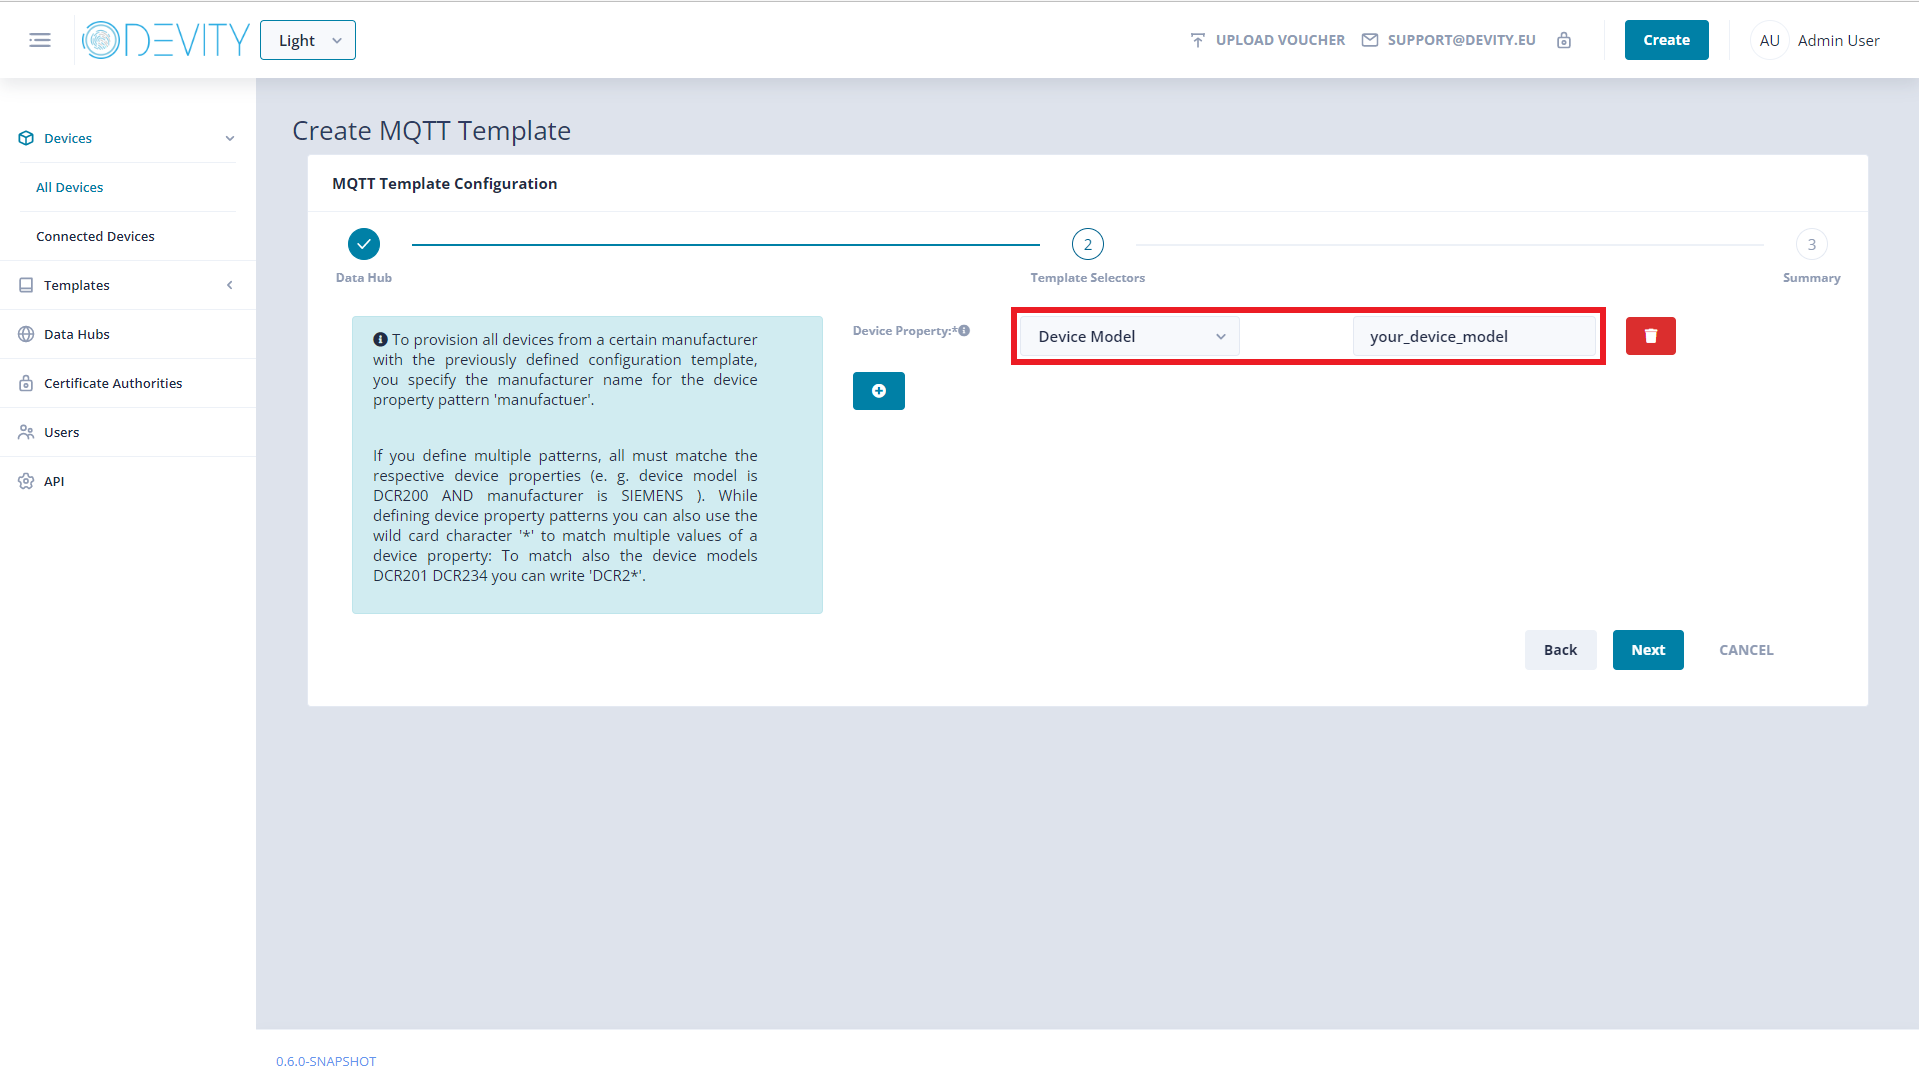
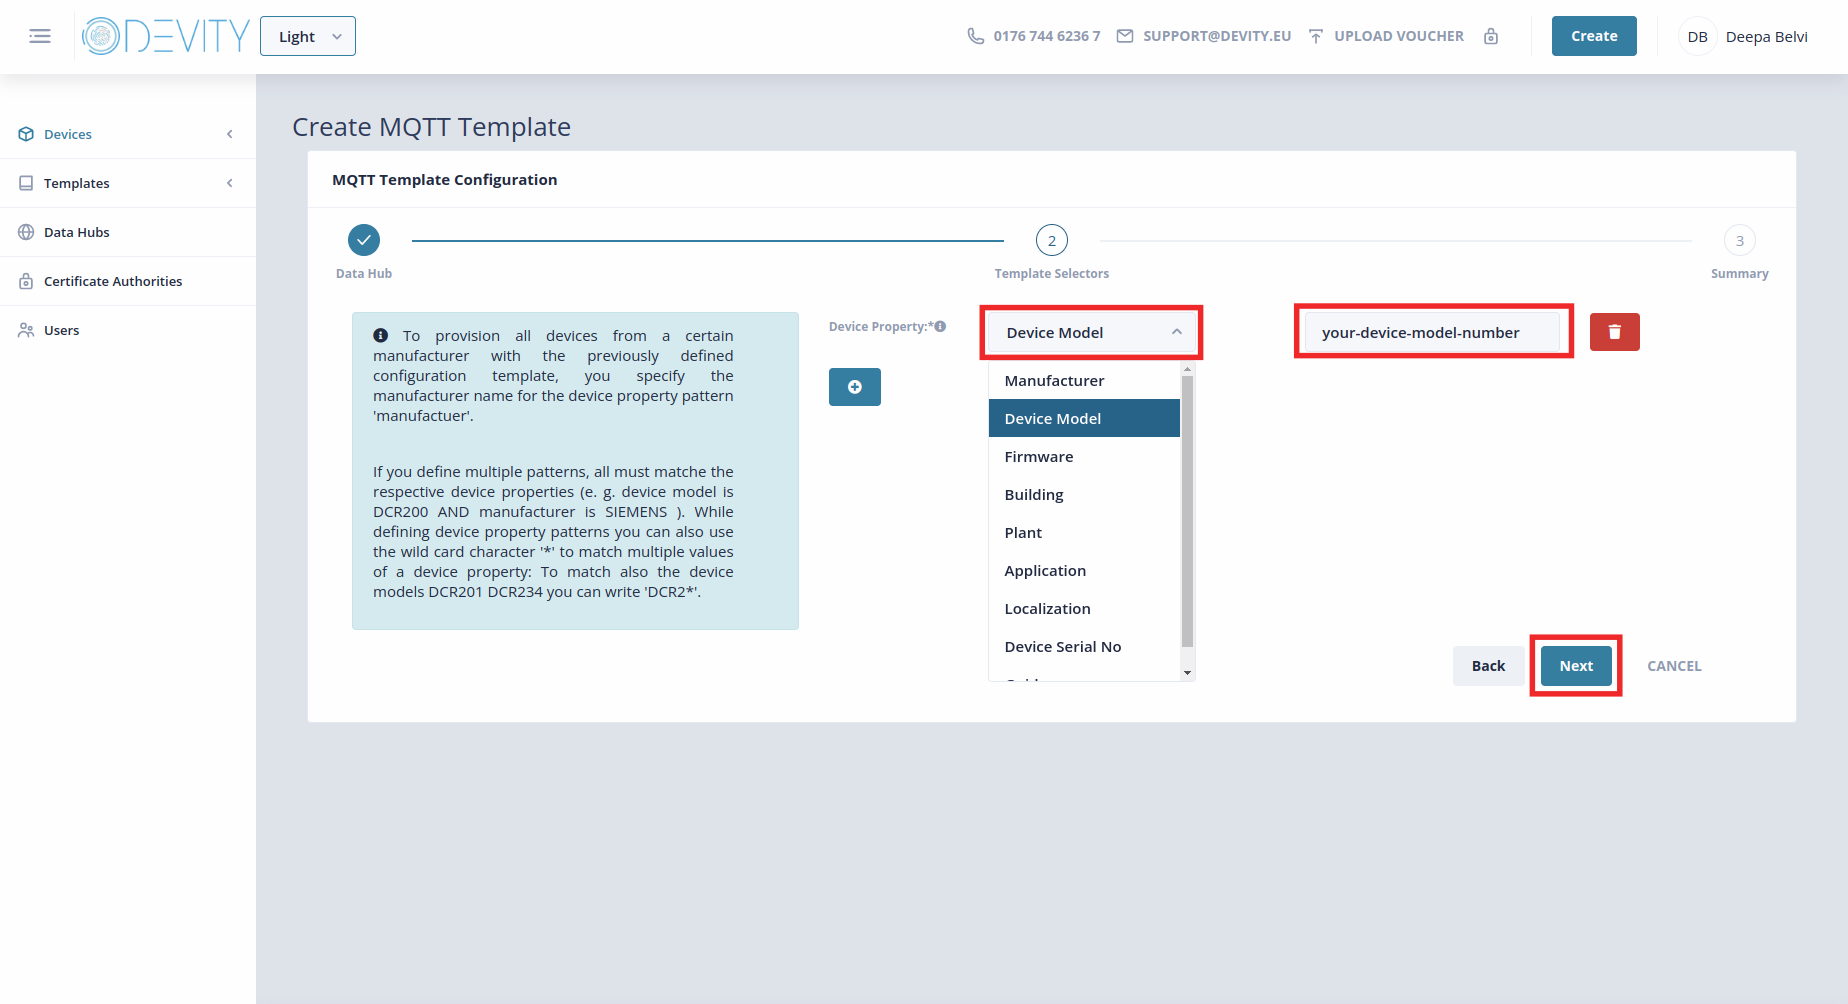
Changes done to KEYNOA Setup -> Create Template as in PROT-2425

diff --git a/website/docs/tutorial/Thingsboard - Rule Engine/KEYNOA.md b/website/docs/tutorial/Thingsboard - Rule Engine/KEYNOA.md
@@ -90,7 +90,7 @@ Use the Create button and click on "MQTT template".
 2. Select your Data Hub. Click on "Next".
 ![KEYNOA](/img/KEYNOA/Thingsboard/MQTT-template-1.png)
 
-3. Fill in the device details:
+3. Fill in the device details as below and click on "Next".
 
 - Device Property: `Device Model`
 - your-device-model-number: `sy-epc-rpi30`
@@ -100,33 +100,33 @@ These properties will be matched against the information which the device provid
 :::info
 For more information about the template concept see the [MQTT Templates Section](/reference/mqtt-template)
 :::
-
-4. Click on "Next".
+ 
 ![KEYNOA](/img/KEYNOA/MQTT-template-2.png)
 
 
-5. Give the template an identifier and click on "Save".
+4. Give the template an identifier and click on "Save".
 
 - Identifier Name: `Thingsboard MQTT template`
 
 ![KEYNOA](/img/KEYNOA/MQTT-template-3.png)
 
-6. You have now created the setup instruction for your device to be onboarded.
+5. You have now created the setup instruction for your device to be onboarded.
 KEYNOA and IoT Central are now fully configured and your device is now ready to be onboarded.
 
 :::info
 Power up your device and connect it to the internet via an ethernet cable.
 :::
 
-7. Wait until your device status in KEYNOA switches to **provisioned** by pressing the little refresh button in the top right.
+6. Wait until your device status in KEYNOA switches to **provisioned** by pressing the little refresh button in the top right.
 After a successful onboarding, the device status in KEYNOA switches to **provisioned**.
+
 :::info
 The onboarding including the boot process should not take longer than 2 minutes.
 :::
 
 ![KEYNOA](/img/KEYNOA/devices_list_refresh.png)
 
-8. Your device is now provisioned to Thingsboard. Continue with the setup of Thingsboard.
+7. Your device is now provisioned to Thingsboard. Continue with the setup of Thingsboard.
 
 :::info
 Checkout the devices section of your Thingsboard to see the new device.
